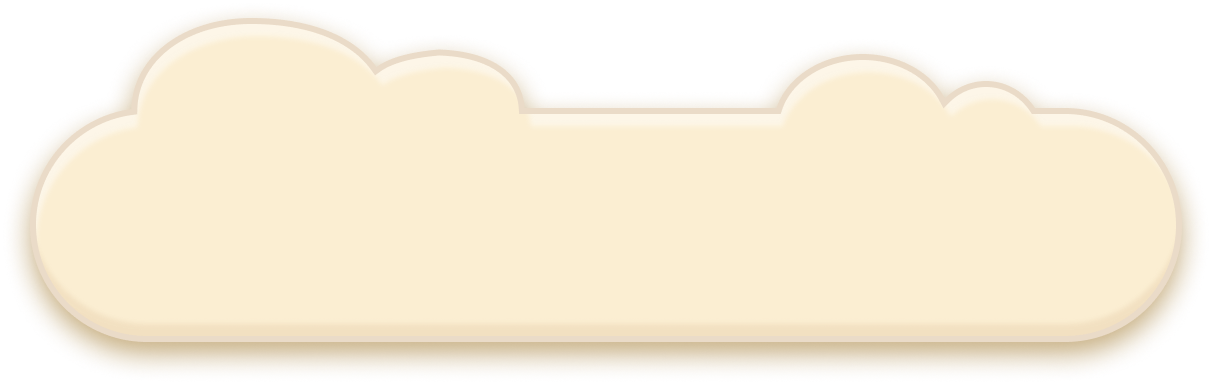
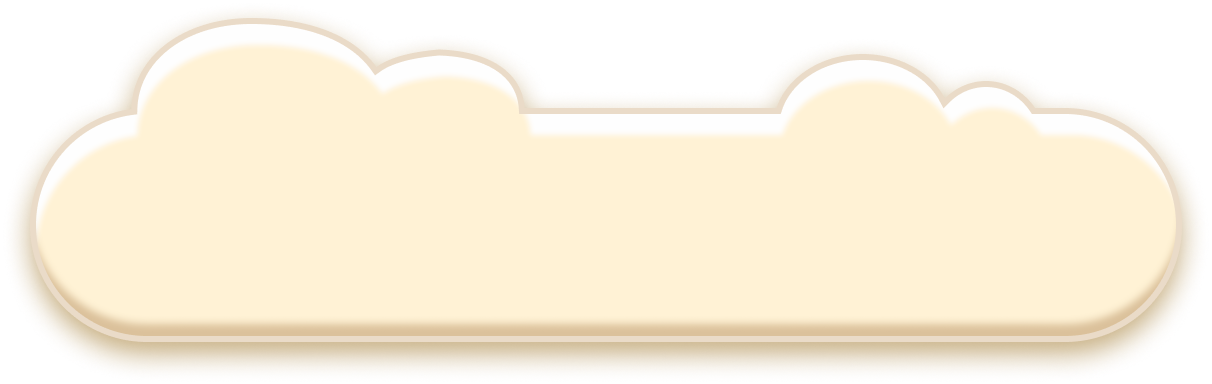
版本3-孵化倒數連動

diff --git a/src/components/CloudProgressBar.jsx b/src/components/CloudProgressBar.jsx
@@ -1,37 +1,51 @@
 import React from "react";
 
-const CloudProgressBar = ({ percentage = 0 }) => {
-  const p = Math.max(0, Math.min(percentage, 100));
-
+const CloudProgressBar = ({ percentage }) => {
   return (
-    <div className="w-full px-0">
-      {/* 你要的「底座」寬度，就由這個容器決定 */}
-      <div className="relative w-full h-26">
-        {/* 雲朵底座：用 fill 才會真的被拉寬 */}
-        <img
-          src="/images/cloud-bar-bg.png"
-          alt="Cloud Progress Bar"
-          className="absolute inset-0 w-full h-full object-fill z-0 pointer-events-none"
-        />
+    <div className="relative w-full max-w-[400px]"> {/* Root Container */}
+      
+      {/* 1. Background Image */}
+      <img 
+        src="/images/cloud-bar-bg3.png" 
+        alt="Bar Background" 
+        className="w-full object-contain pointer-events-none select-none" 
+      />
 
-        {/* 填充（依照底座槽微調 left/top/h） */}
-        <div
-          className="absolute left-8 top-[44px] h-[37px] rounded-full z-10 transition-[width] duration-500"
-          style={{
-            width: `calc((100% - 48px) * ${p / 100})`, // 48px = left 24 + right 24
-            background: "linear-gradient(to right, #fde047, #fb923c)",
+      {/* 2. Calibration Track (The Invisible Safe Zone) */}
+      {/* DEVELOPER NOTE: Tweak these 'top', 'left', 'right', 'height' values to match the PNG artwork perfectly */}
+      <div 
+        className="absolute rounded-full box-border"
+        style={{
+          top: '42%',    // Push down to match the trough vertical center
+          left: '8.5%',  // Push in from the left cloud edge
+          right: '10%',   // Push in from the right cloud edge
+          height: '35%', // Height of the inner trough
+          
+          // 👇 Trough Styles
+          backgroundColor: 'rgba(242, 239, 239, 0.5)', // #F2EFEF @ 100%
+          border: '0.5px solid #e7ded2ff',
+        }}
+      >
+        {/* 3. The Dynamic Fill Bar */}
+        <div 
+          className="relative h-full rounded-full flex items-center box-border"
+          style={{ 
+            width: `${percentage}%`,
+            
+            // 👇 Fill Styles
+            backgroundColor: '#ffcb59ff', 
+            border: '2px solid #e4ddd4ff',
+            // Inner Shadow: x=2, y=6, blur=2, color=#FFF8EA @ 50%
+            boxShadow: 'inset 2px 4px 2px rgba(255, 248, 234, 0.5)',
           }}
         >
-          {/* 星星 */}
-          <div className="absolute -right-5 -top-3 w-15 h-15 z-20 pointer-events-none">
-            <img
-              src="/images/winged-star.png"
-              alt="Star"
-              className="w-full h-full object-contain drop-shadow-md"
-            />
+          {/* 4. The Indicator (Winged Star) - Stick to right end */}
+          <div className="absolute right-0 translate-x-1/2 w-15 h-15 flex items-center justify-center drop-shadow-md z-10">
+             <img src="/images/winged-star.png" alt="Star" className="w-full h-full object-contain" />
           </div>
         </div>
       </div>
+      
     </div>
   );
 };

diff --git a/src/components/IncubatePage.jsx b/src/components/IncubatePage.jsx
@@ -3,19 +3,40 @@ import { Plus } from 'lucide-react';
 import CloudProgressBar from './CloudProgressBar';
 
 const IncubatePage = ({ isIncubating, onStartIncubation }) => {
-    // Timer Logic (Simple countdown for demo)
-    const [timeLeft, setTimeLeft] = useState("03:21:00");
-    const [progress, setProgress] = useState(0);
+    // Timer Logic
+    const TOTAL_TIME = 7200; // 2 Hours in seconds
+    const [timeLeft, setTimeLeft] = useState(TOTAL_TIME);
 
-    // Simulate progress when incubating
+    // Countdown Effect
     useEffect(() => {
-        if (isIncubating) {
-            const interval = setInterval(() => {
-                setProgress(prev => (prev >= 100 ? 0 : prev + 1));
-            }, 1000); // 1% per second for demo
-            return () => clearInterval(interval);
-        }
-    }, [isIncubating]);
+        if (!isIncubating) return;
+        
+        // If already done, don't restart (or handle as 'Hatch Ready' in future)
+        if (timeLeft <= 0) return;
+
+        const interval = setInterval(() => {
+            setTimeLeft(prev => {
+                if (prev <= 1) {
+                    clearInterval(interval);
+                    return 0;
+                }
+                return prev - 1;
+            });
+        }, 1000);
+
+        return () => clearInterval(interval);
+    }, [isIncubating, timeLeft]);
+
+    // Calculate Progress (Inverted: Time goes down, Progress goes up)
+    const progressPercentage = ((TOTAL_TIME - timeLeft) / TOTAL_TIME) * 100;
+
+    // Helper: Format Time HH:MM:SS
+    const formatTime = (seconds) => {
+        const h = Math.floor(seconds / 3600).toString().padStart(2, '0');
+        const m = Math.floor((seconds % 3600) / 60).toString().padStart(2, '0');
+        const s = (seconds % 60).toString().padStart(2, '0');
+        return `${h} : ${m} : ${s}`;
+    };
 
     return (
         <div className="flex-1 flex flex-col items-center justify-center p-8 pb-32 h-full relative w-full overflow-hidden">
@@ -54,13 +75,16 @@ const IncubatePage = ({ isIncubating, onStartIncubation }) => {
                      </div>
 
                      {/* 3. Cloud Progress Bar */}
-                     <div className="w-full flex justify-center mb-4 px-4">
-                        <CloudProgressBar percentage={progress} />
+                     <div className="w-[140%] max-w-[400px] flex justify-center mb-4 px-4 mt-4">
+                        <CloudProgressBar percentage={progressPercentage} />
                      </div>
 
-                     {/* 4. Timer Text (Plain) */}
-                     <div className="text-white/80 font-mono text-lg tracking-widest opacity-90">
-                         {timeLeft}
+                     {/* 4. Timer Text (Formatted & Styled) */}
+                     <div 
+                        className="text-[#8B7D6B] text-[40px] font-bold tracking-widest tabular-nums opacity-90 drop-shadow-sm"
+                        style={{ fontFamily: 'monospace' }}
+                     >
+                         {formatTime(timeLeft)}
                      </div>
                  </div>
              ) : (

diff --git a/CONTEXT.md b/CONTEXT.md
@@ -142,3 +142,52 @@ rwd: 手機版已優化，可檢查桌面版適配性。
    破殼/孵化完成 (Hatching): 當倒數結束時的互動（點擊破殼）以及展示獲得的獎勵（外星生物）。
    圖鑑連結 (Collection): 將孵化出的生物存入 AlienCollection (圖鑑頁面)。
    Generated by Antigravity on 2025-12-17
+
+專案進度交接文件 (Project Handover)
+📌 專案概要
+專案名稱: Star Wish Habit Tracker (星願習慣追蹤) 目前焦點: 孵化系統 (Incubation System) 完整實作與 UI 優化
+
+✅ 已完成功能 (Completed Features)
+
+1. 孵化頁面 (IncubatePage.jsx)
+   狀態 A (Idle/未孵化):
+   新設計: 移除舊版雲朵形狀，改為「懸浮的大號 Plus (+) 圖示」位於雲朵平台上方。
+   互動: 點擊圖示可觸發（目前暫無後續動作，預留擴充）。
+   狀態 B (Incubating/孵化中):
+   倒數計時器: 實作 2 小時 (02:00:00) 真實倒數邏輯。
+   樣式: 計時器文字使用 40px、色碼 #8B7D6B、並採用等寬字體 (Monospace) 避免數字跳動。
+   連動進度: 雲朵進度條 (CloudProgressBar) 根據倒數時間動態填滿 (時間越少，進度越高)。
+2. 雲朵進度條 (CloudProgressBar.jsx)
+   架構重構: 採用 "Inner Track" 策略，將進度條與背景圖分離，使用百分比定位 (top: 28%, left: 4.5%) 確保填充位置精準吻合。
+   高保真樣式 (Hi-Fi Styles):
+   軌道 (Track): #F2EFEF (50% 透明度) + #EADBC8 邊框。
+   填充 (Fill): 純色 #FFBF33 + 內陰影 (Inner Shadow) 效果 + #EADBC8 邊框。
+   指示器: 末端附帶「翅膀星星」圖示。
+3. 主頁 Hero 互動 (Hero.jsx & App.jsx)
+   星蛋激活: 積分達 20 分時，星蛋解除灰階，新增 animate-bounce 跳動效果與發光特效。
+   導航修復: 修正了
+   Hero
+   組件未接收 onEggClick 的 Bug。現在點擊激活的星蛋會正確觸發
+   App.jsx
+   中的
+   handleEggClick
+   ，進入孵化頁面。
+   狀態管理: isIncubating 狀態正確控制頁面切換。
+   📂 關鍵檔案結構
+   src/App.jsx
+   : 核心路由與狀態 (handleEggClick, currentView, isIncubating)。
+   src/components/IncubatePage.jsx
+   : 孵化主邏輯 (Timer, Layout)。
+   src/components/Hero.jsx
+   : 顯示積分與孵化入口 (Egg Trigger)。
+   src/components/CloudProgressBar.jsx
+   : 高度客製化的進度條 UI。
+   🚀 下一步建議 (Next Steps)
+   孵化完成 (Hatching Logic):
+   當倒數計時歸零 (timeLeft <= 0) 時，需實作「破殼動畫」與「領取獎勵」的互動。
+   目前計時器歸零後僅停止，尚未觸發新狀態。
+   資料持久化 (Persistence):
+   孵化開始時間 (startTime) 應存入 localStorage，否則重新整理網頁後倒數會重置為 2 小時。
+   圖鑑整合 (Alien Collection):
+   孵化出的生物需要寫入 AlienCollection 的資料結構中，實現真正的「收集」功能。
+   Updated by Antigravity on 2025-12-17 23:10
